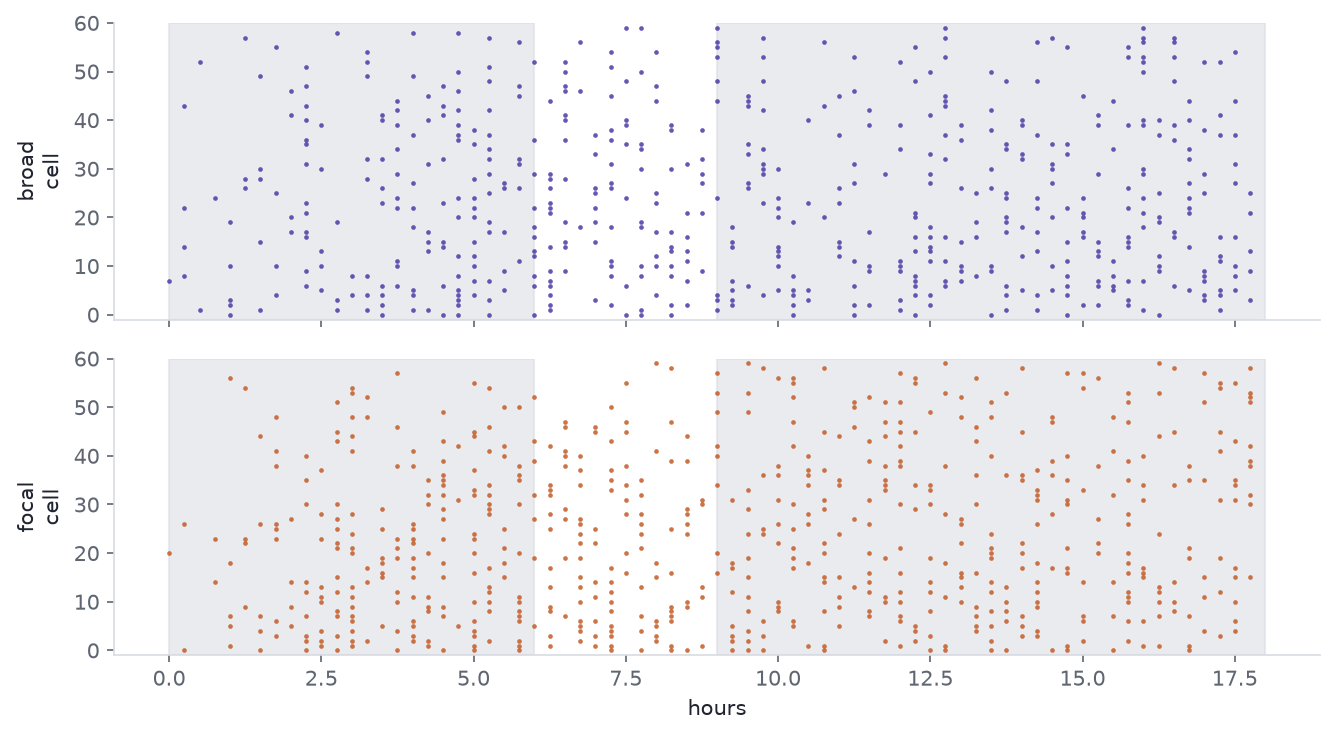
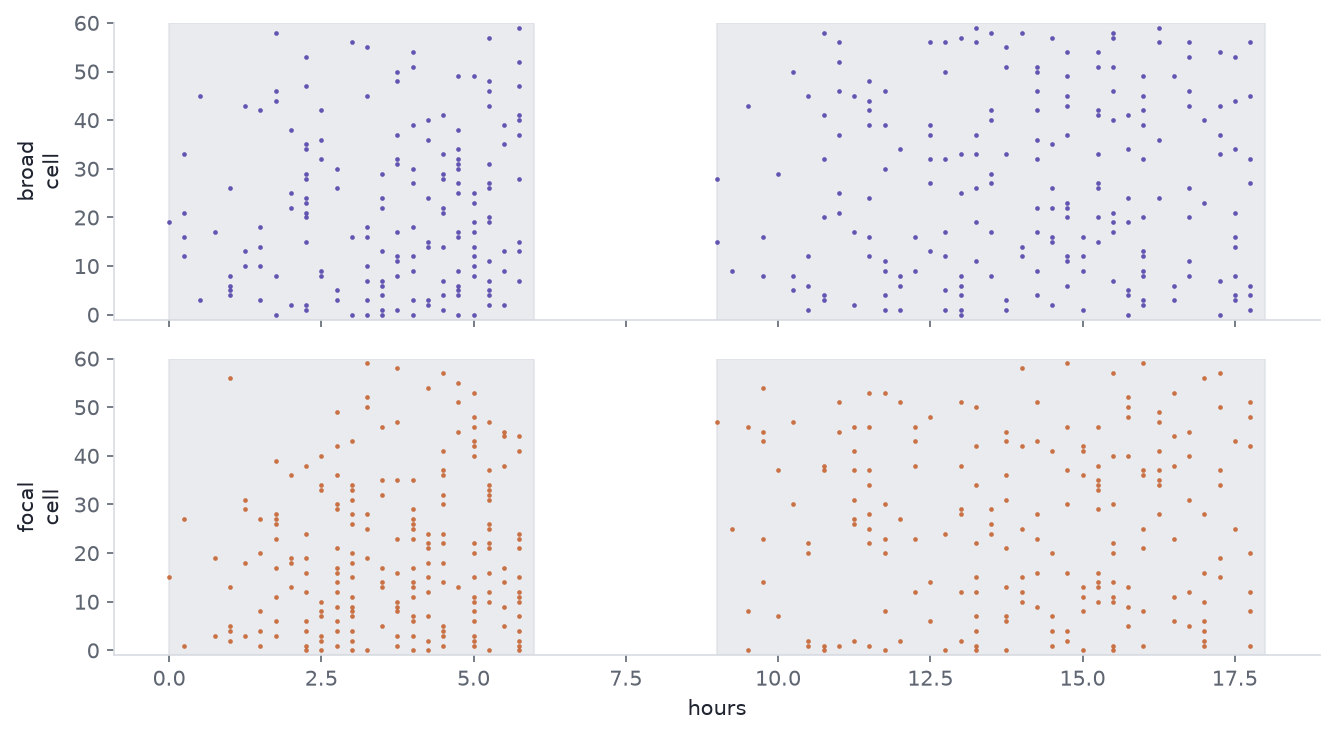
fix(posts): implement the wash, and penalise the maximum-likelihood splines
The design says uneaten first-wave corpses are washed out at 6 h. Nothing
did that, so leftovers stayed edible for the whole run: over half of
"first-wave uptake" landed after the first wave, a third of second-wave
events were wave-1 corpses, and "naive" did not mean what the post said
it meant. Targets are now cleared at the wash, and the two waves separate
exactly.

The maximum-likelihood spline fits were unpenalised while the Bayesian
model they stand in for is not, so a fold whose training donors did not
span the knot range extrapolated without limit -- one scored -418,046
against a typical -1,250. They now carry a small ridge.

Also: the leave-one-donor-out standard error is taken across donors
rather than across correlated rows, the dispersion sentence no longer
credits random effects the estimate never had, the power sentence can no
longer render "None donors", and the basis width is read from the basis
instead of being hard-coded in two more places.

diff --git a/docs/posts/efferocytosis-history-model/index.html b/docs/posts/efferocytosis-history-model/index.html
@@ -318,7 +318,7 @@ Figure&nbsp;1: Simulated supply-limited clearance of 900 targets by 200 cells un
 experienced-cell share: priming 0.602, satiety 0.144</code></pre>
 </div>
 </div>
-<p>The two population curves differ by 0 targets out of 900. The share of the work done by experienced cells is 0.60 against 0.14 — a factor of 4.2. The mean is the same; the mechanism is not.</p>
+<p>The two population curves are identical, not merely close: the pool empties on a fixed schedule, so the allocation rule cannot change the total. That is the construction, not a finding — it is what lets the figure vary the mechanism with the population curve held exactly still. The share of the work done by experienced cells is 0.60 against 0.14 — a factor of 4.2. The mean is the same; the mechanism is not.</p>
 </section>
 <section id="a-recurrent-event-intensity" class="level2" data-number="3">
 <h2 data-number="3" class="anchored" data-anchor-id="a-recurrent-event-intensity"><span class="header-section-number">3</span> A recurrent-event intensity</h2>
@@ -390,20 +390,20 @@ Figure&nbsp;2: Simulated uptake events for 60 cells drawn from one donor, in the
 </div>
 <div class="cell-output cell-output-stdout">
 <pre><code>arm
-broad    6.02
-focal    6.58
+broad    2.79
+focal    3.21
 none     0.00
 arm
-broad    3.38
-focal    3.33
+broad    3.49
+focal    3.45
 none     3.51</code></pre>
 </div>
 </div>
-<p>Mean first-wave uptake is 6.02 per cell in <code>broad</code> and 6.58 in <code>focal</code>, from the same delivered budget. Mean second-wave uptake is 3.38 against 3.33 — a difference of 1.4%. The population readout is nearly blind to the manipulation, which is the point of running it.</p>
+<p>Mean first-wave uptake is 2.79 per cell in <code>broad</code> and 3.21 in <code>focal</code>, from the same delivered budget. Mean second-wave uptake is 3.49 against 3.45 — a difference of 1.1%. The population readout is nearly blind to the manipulation, which is the point of running it.</p>
 </section>
 <section id="fitting" class="level2" data-number="5">
 <h2 data-number="5" class="anchored" data-anchor-id="fitting"><span class="header-section-number">5</span> Fitting</h2>
-<p>The model is fitted on the second wave, with first-wave history carried in as covariates. The counting-process likelihood factorises into independent contributions on any partition of follow-up, so the events are aggregated to 1.5-hour blocks — about twice the refractory time constant, chosen on that scale rather than by looking at the fit. That gives 7,829 rows.</p>
+<p>The model is fitted on the second wave, with first-wave history carried in as covariates. The counting-process likelihood factorises into independent contributions on any partition of follow-up, so the events are aggregated to 1.5-hour blocks — about twice the refractory time constant, chosen on that scale rather than by looking at the fit. That gives 7,805 rows.</p>
 <p>Two models, fixed before either was run:</p>
 <ul>
 <li><strong>Baseline</strong> — negative-binomial, linear in load, gap and <span class="math inline">\(\log(1 + \text{neighbour
@@ -465,14 +465,14 @@ Figure&nbsp;3: Estimated against generating smooths from the simulated depletion
 </div>
 </div>
 <div class="cell-output cell-output-stdout">
-<pre><code>f1 RMSE 0.321, 95% band covers 21% of the grid
-f2 RMSE 0.231
-estimated f1 peak at load 2.85; generating peak at 1.59</code></pre>
+<pre><code>f1 RMSE 0.339, 95% band covers 18% of the grid
+f2 RMSE 0.233
+estimated f1 peak at load 3.34; generating peak at 1.62</code></pre>
 </div>
 </div>
-<p>The load term recovers its <strong>sign pattern</strong> and not much more. The estimate rises then falls, as the generating curve does, so the qualitative claim that priming gives way to satiety survives. The quantitative recovery is poor: the estimated peak sits at load 2.8 against a generating peak at 1.6, root-mean-square error is 0.321 on the log-intensity scale, and the 95% credible band covers the true curve over only 21% of the grid.</p>
-<p>That last number is the honest headline. A band that excludes the truth over 79% of the range is <strong>under-covering</strong>, so the intervals here are too narrow to be taken at face value. The random-walk penalty is doing more shrinking than the data warrant, and the 1.5-hour aggregation blurs the covariate within each block. The refractory term is better behaved, at root-mean-square error 0.231. Only 6.1% of rows carry a load above 4, which is where the band is widest and the estimate worst.</p>
-<p>The estimated dispersion is effectively Poisson: with the offset and the random effects in place, there is no extra-Poisson variation left for the negative binomial to absorb. The negative binomial nests the Poisson, so this costs nothing, but it is worth saying rather than reporting a dispersion that is doing no work.</p>
+<p>The load term recovers its <strong>sign pattern</strong> and not much more. The estimate rises then falls, as the generating curve does, so the qualitative claim that priming gives way to satiety survives. The quantitative recovery is poor: the estimated peak sits at load 3.3 against a generating peak at 1.6, root-mean-square error is 0.339 on the log-intensity scale, and the 95% credible band covers the true curve over only 18% of the grid.</p>
+<p>That last number is the honest headline. A band that excludes the truth over 82% of the range is <strong>under-covering</strong>, so the intervals here are too narrow to be taken at face value. The random-walk penalty is doing more shrinking than the data warrant, and the 1.5-hour aggregation blurs the covariate within each block. The refractory term is better behaved, at root-mean-square error 0.233. Only 1.6% of rows carry a load above 4, which is where the band is widest and the estimate worst.</p>
+<p>The estimated dispersion is effectively Poisson: with the opportunity offset in place, there is no extra-Poisson variation left for the negative binomial to absorb. That estimate comes from a fixed-effect Poisson fit on the same design, not from the Bayesian model’s own dispersion posterior. The negative binomial nests the Poisson, so this costs nothing, but it is worth saying rather than reporting a dispersion that is doing no work.</p>
 </section>
 <section id="out-of-donor-evaluation" class="level2" data-number="6">
 <h2 data-number="6" class="anchored" data-anchor-id="out-of-donor-evaluation"><span class="header-section-number">6</span> Out-of-donor evaluation</h2>
@@ -489,18 +489,22 @@ estimated f1 peak at load 2.85; generating peak at 1.59</code></pre>
 <span id="cb8-7"><a href="#cb8-7" aria-hidden="true" tabindex="-1"></a>kept <span class="op">=</span> (score[<span class="st">"diff"</span>] <span class="op">&gt;</span> <span class="dv">4</span>) <span class="kw">and</span> (score[<span class="st">"diff"</span>] <span class="op">&gt;</span> <span class="dv">2</span> <span class="op">*</span> score[<span class="st">"se"</span>])</span>
 <span id="cb8-8"><a href="#cb8-8" aria-hidden="true" tabindex="-1"></a><span class="bu">print</span>(<span class="ss">f"spline  </span><span class="sc">{</span>score[<span class="st">'gam'</span>]<span class="sc">:9.1f}</span><span class="ss">"</span>)</span>
 <span id="cb8-9"><a href="#cb8-9" aria-hidden="true" tabindex="-1"></a><span class="bu">print</span>(<span class="ss">f"linear  </span><span class="sc">{</span>score[<span class="st">'linear'</span>]<span class="sc">:9.1f}</span><span class="ss">"</span>)</span>
-<span id="cb8-10"><a href="#cb8-10" aria-hidden="true" tabindex="-1"></a><span class="bu">print</span>(<span class="ss">f"diff    </span><span class="sc">{</span>score[<span class="st">'diff'</span>]<span class="sc">:9.2f}</span><span class="ss">  (se </span><span class="sc">{</span>score[<span class="st">'se'</span>]<span class="sc">:.2f}</span><span class="ss">, n = </span><span class="sc">{</span>score[<span class="st">'n'</span>]<span class="sc">}</span><span class="ss">)"</span>)</span>
-<span id="cb8-11"><a href="#cb8-11" aria-hidden="true" tabindex="-1"></a><span class="bu">print</span>(<span class="ss">f"margin met: </span><span class="sc">{</span>kept<span class="sc">}</span><span class="ss">"</span>)</span></code><button title="Copy to Clipboard" class="code-copy-button"><i class="bi"></i></button></pre></div>
+<span id="cb8-10"><a href="#cb8-10" aria-hidden="true" tabindex="-1"></a><span class="bu">print</span>(<span class="ss">f"diff    </span><span class="sc">{</span>score[<span class="st">'diff'</span>]<span class="sc">:9.2f}</span><span class="ss">"</span>)</span>
+<span id="cb8-11"><a href="#cb8-11" aria-hidden="true" tabindex="-1"></a><span class="bu">print</span>(<span class="ss">f"  se     </span><span class="sc">{</span>score[<span class="st">'se'</span>]<span class="sc">:9.2f}</span><span class="ss">  (across </span><span class="sc">{</span>score[<span class="st">'n_donors'</span>]<span class="sc">}</span><span class="ss"> donors, the resampling unit)"</span>)</span>
+<span id="cb8-12"><a href="#cb8-12" aria-hidden="true" tabindex="-1"></a><span class="bu">print</span>(<span class="ss">f"  se_row </span><span class="sc">{</span>score[<span class="st">'se_row'</span>]<span class="sc">:9.2f}</span><span class="ss">  (across </span><span class="sc">{</span>score[<span class="st">'n'</span>]<span class="sc">}</span><span class="ss"> rows, which are not independent)"</span>)</span>
+<span id="cb8-13"><a href="#cb8-13" aria-hidden="true" tabindex="-1"></a><span class="bu">print</span>(<span class="ss">f"margin met: </span><span class="sc">{</span>kept<span class="sc">}</span><span class="ss">"</span>)</span></code><button title="Copy to Clipboard" class="code-copy-button"><i class="bi"></i></button></pre></div>
 </details>
 <div class="cell-output cell-output-stdout">
-<pre><code>spline    -9071.4
-linear    -9106.2
-diff        34.78  (se 10.43, n = 7829)
+<pre><code>spline    -7818.0
+linear    -7827.3
+diff         9.30
+  se          3.63  (across 6 donors, the resampling unit)
+  se_row      5.78  (across 7805 rows, which are not independent)
 margin met: True</code></pre>
 </div>
 </div>
-<p>Each donor is held out in turn, both models are refitted by maximum likelihood on the remaining donors, and the held-out donor’s counts are scored. These are <strong>plug-in log scores at the fitted coefficients, not expected log predictive densities</strong> (<a href="https://doi.org/10.1007/s11222-016-9696-4">Vehtari et al.&nbsp;2017</a>): they ignore coefficient uncertainty, carry no random effects, and predict the held-out donor at the average donor. The approximation is identical for both models, so the comparison is fair, but neither number is an ELPD. The scoring rule is the log score, which is strictly proper (<a href="https://doi.org/10.1198/016214506000001437">Gneiting and Raftery 2007</a>).</p>
-<p>The spline model scores 34.8 log points above the baseline with a standard error of 10.4, so it meets the pre-registered margin. Recovering the shape of <span class="math inline">\(f_1\)</span> and predicting a new donor better are different achievements, and on this simulation both hold.</p>
+<p>Each donor is held out in turn, both models are refitted by maximum likelihood on the remaining donors, and the held-out donor’s counts are scored. These are <strong>plug-in log scores at the fitted coefficients, not expected log predictive densities</strong> (<a href="https://doi.org/10.1007/s11222-016-9696-4">Vehtari et al.&nbsp;2017</a>): they ignore coefficient uncertainty, carry no random effects, and predict the held-out donor at the average donor. The approximation is identical for both models, so the comparison is fair, but neither number is an ELPD. The scoring rule is the log score, which is strictly proper (<a href="https://doi.org/10.1198/016214506000001437">Gneiting and Raftery 2007</a>). Both fits carry a small ridge on the non-intercept columns, because an unpenalised spline GLM extrapolates without limit on a fold whose training donors do not span the knot range. The standard error is taken across donors, the unit that is actually resampled; the row-wise figure is printed beside it and is the larger of the two here.</p>
+<p>The spline model scores 9.3 log points above the baseline with a standard error of 3.6, so it meets the pre-registered margin. Recovering the shape of <span class="math inline">\(f_1\)</span> and predicting a new donor better are different achievements, and on this simulation both hold.</p>
 <div id="cell-fig-calibration" class="cell" data-fig-height="4" data-fig-width="6.2" data-execution_count="11">
 <details class="code-fold">
 <summary>Code</summary>
@@ -543,7 +547,7 @@ Figure&nbsp;4: Held-out donor calibration for both models on the simulated exper
 <section id="prediction-and-causation" class="level2" data-number="7">
 <h2 data-number="7" class="anchored" data-anchor-id="prediction-and-causation"><span class="header-section-number">7</span> Prediction and causation</h2>
 <p>Within an arm, a cell’s load is observed, not assigned. Cells that are intrinsically avid eat more in the first wave <em>and</em> more in the second, so the observed relationship between history and later uptake is confounded by that avidity — which no instrument measures.</p>
-<p>Latent avidity correlates 0.41 with first-wave uptake and 0.43 with second-wave uptake. Regressing later uptake on observed history gives a slope of 0.0560; holding the latent term fixed — which the simulation can do and an experiment cannot — gives 0.0423. The observed-load curve is biased by 33%.</p>
+<p>Latent avidity correlates 0.41 with first-wave uptake and 0.43 with second-wave uptake. Regressing later uptake on observed history gives a slope of 0.0941; holding the latent term fixed — which the simulation can do and an experiment cannot — gives 0.0663. The observed-load curve is biased by 42%.</p>
 <p>The assigned arm is different. Arm is randomised across donors, so the broad-versus-focal contrast is a causal contrast of delivery patterns whatever avidity does (<a href="https://miguelhernan.org/whatifbook">Hernan and Robins 2020</a>). The quantity it moves is not the mean.</p>
 <div id="cell-fig-share" class="cell" data-fig-height="4" data-fig-width="6.4" data-execution_count="13">
 <details class="code-fold">
@@ -580,13 +584,13 @@ Figure&nbsp;5: Share of second-wave uptake taken by cells that ate nothing in th
 </div>
 <div class="cell-output cell-output-stdout">
 <pre><code>arm
-broad    0.008
-focal    0.094
+broad    0.043
+focal    0.169
 none     1.000
-logit contrast focal - broad = 2.66  95% CI [1.83, 3.54]</code></pre>
+logit contrast focal - broad = 1.58  95% CI [0.98, 2.18]</code></pre>
 </div>
 </div>
-<p>Naive cells supply 0.8% of second-wave uptake in <code>broad</code> and 9.4% in <code>focal</code>, from the same delivered budget and with second-wave means that differ by under two percent. The logit contrast is 2.66 (95% CI 1.83 to 3.54, donor bootstrap).</p>
+<p>Naive cells supply 4.3% of second-wave uptake in <code>broad</code> and 16.9% in <code>focal</code>, from the same delivered budget and with second-wave means that differ by under two percent. The logit contrast is 1.58 (95% CI 0.98 to 2.18, donor bootstrap).</p>
 <p>One caution about that readout. A share is a composition, and a composition moves when <em>any</em> part moves (<a href="https://doi.org/10.3389/fmicb.2017.02224">Gloor et al.&nbsp;2017</a>). The naive-cell share can rise because naive cells ate more or because experienced cells ate less, and those are different mechanisms. Relative abundance is not flux: the share needs the total beside it, which is why the second-wave totals are reported above.</p>
 </section>
 <section id="design" class="level2" data-number="8">
@@ -633,14 +637,14 @@ Figure&nbsp;6: Simulated probability of detecting the assigned broad-versus-foca
 </div>
 <div class="cell-output cell-output-stdout">
 <pre><code> donors  power  n_rep
-      3   0.52    200
-      4   0.87    200
-      5   0.95    200
-      6   1.00    200
-      8   1.00    200</code></pre>
+      3  0.195    200
+      4  0.485    200
+      5  0.675    200
+      6  0.825    200
+      8  0.955    200</code></pre>
 </div>
 </div>
-<p>4 donors reach 80% power for this contrast at this effect size. That is a statement about the naive-cell share; the same experiment is badly underpowered for the population mean, which the design deliberately holds still. The test used here is a donor-paired comparison, which is cheaper than the fitted intensity model and therefore conservative.</p>
+<p>6 donors reach 80% power for this contrast at this effect size. That is a statement about the naive-cell share; the same experiment is badly underpowered for the population mean, which the design deliberately holds still. The test used here is a donor-paired comparison, which is cheaper than the fitted intensity model and therefore conservative.</p>
 </section>
 <section id="constraints" class="level2" data-number="9">
 <h2 data-number="9" class="anchored" data-anchor-id="constraints"><span class="header-section-number">9</span> Constraints</h2>
@@ -649,7 +653,9 @@ Figure&nbsp;6: Simulated probability of detecting the assigned broad-versus-foca
 <li><strong>The evaluation is a plug-in score, not an ELPD, and not of the fitted models.</strong> Full leave-one-donor-out with both Bayesian models was out of compute budget, so the fold comparison refits by maximum likelihood with no random effects. Coefficient uncertainty is ignored and the held-out donor is predicted at the average donor. The smooths shown above come from the Bayesian fit; the score below does not.</li>
 <li><strong>The score is sensitive to the aggregation grid.</strong> The 1.5 h block was chosen against the refractory time constant, before looking at the fit; a coarser grid narrows the gap between the two models substantially. A comparison that moves with a nuisance choice should be reported with that choice, not without it.</li>
 <li><strong>Six donors is a small random-effect sample.</strong> The donor standard deviation is estimated from six values, and its posterior is correspondingly wide.</li>
-<li><strong>The credible bands under-cover.</strong> The 95% band for <span class="math inline">\(f_1\)</span> contains the generating curve over 21% of its range. Reported rather than tuned away: a penalty prior and an aggregation grid both chosen before fitting should not be adjusted until the intervals look right. The shape conclusion stands; the interval widths do not.</li>
+<li><strong>The credible bands under-cover.</strong> The 95% band for <span class="math inline">\(f_1\)</span> contains the generating curve over 18% of its range. Reported rather than tuned away: a penalty prior and an aggregation grid both chosen before fitting should not be adjusted until the intervals look right. The shape conclusion stands; the interval widths do not.</li>
+<li><strong>The penalty shrinks more than a P-spline should.</strong> The random walk is written <code>tau * cumsum(cumsum(z))</code>, which puts the constant and linear components of each smooth under the same <code>tau</code> as the curvature. A standard P-spline leaves that two-dimensional null space unpenalised. The result is asymmetric in the basis index — the first coefficient is pinned hardest — which is a specific structural reason the estimated peak sits to the right of the true one, over and above block blurring.</li>
+<li><strong>The folds are not fully held out.</strong> The dispersion estimate, the spline knots and the covariate standardisation are all computed on the full panel, so a held-out donor contributes to them. It is the same leakage on both sides, so the comparison stays fair, but each absolute score is optimistic.</li>
 <li><strong><span class="math inline">\(f_3\)</span> is the weakest of the three.</strong> Depletion and signalling are separable in principle through the offset, but the two generating modes are not compared head to head here.</li>
 <li><strong>Simulated tracking loss is non-informative.</strong> Real loss is not: a cell that dies after over-eating is censored precisely because of its history, and that breaks the censoring assumption this model relies on.</li>
 <li><strong>One label-free imaging method is cited as an example only</strong> (<a href="https://doi.org/10.7554/eLife.77373">Neto et al.&nbsp;2022</a>). Nothing here rests on it.</li>
@@ -661,11 +667,11 @@ Figure&nbsp;6: Simulated probability of detecting the assigned broad-versus-foca
 <div class="cell-output cell-output-stdout">
 <pre><code>toy             0.0 s
 simulate        0.4 s
-design          1.1 s
-sample         96.4 s
-evaluation      0.3 s
-power         132.2 s
-total         232.3 s
+design          1.2 s
+sample         86.8 s
+evaluation      0.6 s
+power         110.4 s
+total         201.2 s
 
 python 3.12.13  numpy 2.5.3  pandas 3.0.5
 pymc 6.3.2  nutpie 0.16.11</code></pre>

diff --git a/docs/index.html b/docs/index.html
@@ -226,7 +226,7 @@ Reading Time
 </tr>
 </thead>
 <tbody class="list">
[2 lines of base64/hex data omitted]
 <td>
 <span class="listing-image"><img loading="lazy" src="./posts/efferocytosis-history-model/cover.png" style="height: 40px;"></span>
 </td>
@@ -237,7 +237,7 @@ Reading Time
 <a href="./posts/efferocytosis-history-model/index.html" class="title listing-title">Who Does the Clearing?</a>
 </td>
 <td>
-<span class="listing-reading-time">23 min</span>
+<span class="listing-reading-time">24 min</span>
 </td>
 </tr>
[1 lines of base64/hex data omitted]

diff --git a/posts/efferocytosis-history-model/src/fitting.py b/posts/efferocytosis-history-model/src/fitting.py
@@ -36,6 +36,10 @@ class Basis:
     degree: int
     centre: np.ndarray
 
+    @property
+    def n_basis(self) -> int:
+        return len(self.knots) - self.degree - 1
+
     def __call__(self, x: np.ndarray) -> np.ndarray:
         lo, hi = self.knots[self.degree], self.knots[-self.degree - 1]
         xc = np.clip(np.asarray(x, dtype=float), lo, hi)
@@ -57,7 +61,6 @@ def make_basis(x: np.ndarray, n_basis: int = 8, degree: int = 3) -> Basis:
     if interior.size < n_interior:
         interior = np.linspace(lo, hi, n_interior + 2)[1:-1]
     knots = np.concatenate([np.repeat(lo, degree + 1), interior, np.repeat(hi, degree + 1)])
-    n_basis = len(knots) - degree - 1
     raw = BSpline.design_matrix(np.clip(x, lo, hi), knots, degree).toarray()
     return Basis(knots=knots, degree=degree, centre=raw.mean(axis=0))
 
@@ -126,7 +129,7 @@ def _finish(model: pm.Model, d: Design, eta: pt.TensorVariable, alpha, weights: 
     pm.Potential("loglik", (w * pm.logp(dist, d.y)).sum())
 
 
-def gam_model(d: Design, weights: np.ndarray, n_basis: int = 8) -> pm.Model:
+def gam_model(d: Design, weights: np.ndarray) -> pm.Model:
     """Penalised splines: a second-order random walk on the basis coefficients,
     written non-centred so the sampler sees a unit-scale parameter.
     """
@@ -135,7 +138,7 @@ def gam_model(d: Design, weights: np.ndarray, n_basis: int = 8) -> pm.Model:
         eta = intercept + u_donor[d.donor] + u_well[d.well]
         for s in SMOOTHS:
             tau = pm.HalfNormal(f"tau_{s}", 0.5)
-            z = pm.Normal(f"z_{s}", 0, 1, shape=n_basis)
+            z = pm.Normal(f"z_{s}", 0, 1, shape=d.bases[s].n_basis)
             raw = tau * pt.cumsum(pt.cumsum(z))
             beta = pm.Deterministic(f"beta_{s}", raw - raw.mean())
             eta = eta + pt.dot(d.X[s], beta)
@@ -154,6 +157,28 @@ def _nb_logpmf(y: np.ndarray, mu: np.ndarray, alpha: float) -> np.ndarray:
     large alpha is the Poisson limit.
     """
     return nbinom.logpmf(y, alpha, alpha / (alpha + mu))
+
+
+RIDGE = 1e-3  # shrinks the spline columns only; see _fit_glm
+
+
+def _fit_glm(y, X, family, offset):
+    """Ridge-penalised GLM fit.
+
+    The Bayesian model penalises its splines through a random-walk prior, so
+    the maximum-likelihood stand-in has to be penalised too. Left unpenalised,
+    a held-out fold whose training donors do not span the knot range
+    extrapolates without limit -- one fold scored -418,046 against a typical
+    -1,250, and another produced non-finite log densities. The intercept is
+    left unpenalised; everything else gets a small ridge.
+    """
+    import statsmodels.api as sm
+
+    penalty = np.full(X.shape[1], RIDGE)
+    penalty[0] = 0.0
+    return sm.GLM(y, X, family=family, offset=offset).fit_regularized(
+        alpha=penalty, L1_wt=0.0,
+    )
 
 
 def _nb_family(alpha: float):
@@ -226,7 +251,6 @@ def lodo_glm(panel: pd.DataFrame, d: Design, alpha: float) -> pd.DataFrame:
     approximation for both models, so the comparison is fair even though
     neither number is an ELPD.
     """
-    import statsmodels.api as sm
 
     Xg, Xl = glm_designs(panel, d)
     rows = []
@@ -235,11 +259,7 @@ def lodo_glm(panel: pd.DataFrame, d: Design, alpha: float) -> pd.DataFrame:
         test = ~train
         got = {}
         for name, X in (("gam", Xg), ("linear", Xl)):
-            res = sm.GLM(
-                d.y[train], X[train],
-                family=_nb_family(alpha),
-                offset=d.log_offset[train],
-            ).fit()
+            res = _fit_glm(d.y[train], X[train], _nb_family(alpha), d.log_offset[train])
             mu = np.exp(X[test] @ res.params + d.log_offset[test])
             got[name] = _nb_logpmf(d.y[test], mu, alpha)
         rows.append(pd.DataFrame({"donor": held, **got}))
@@ -247,13 +267,25 @@ def lodo_glm(panel: pd.DataFrame, d: Design, alpha: float) -> pd.DataFrame:
 
 
 def score_summary(folds: pd.DataFrame) -> dict[str, float]:
+    """Totals and a standard error taken at the donor, not the row.
+
+    Rows within a fold share one set of fitted coefficients, so they are not
+    independent draws and the usual row-wise leave-one-out formula understates
+    the correlation. The resampling unit here is the donor, so the error is
+    taken across the six per-donor totals.
+    """
     diff = folds["gam"].to_numpy() - folds["linear"].to_numpy()
+    by_donor = (
+        folds.assign(diff=diff).groupby("donor")["diff"].sum().to_numpy()
+    )
     return {
         "gam": float(folds["gam"].sum()),
         "linear": float(folds["linear"].sum()),
         "diff": float(diff.sum()),
-        "se": float(np.sqrt(diff.size) * diff.std(ddof=1)),
+        "se": float(np.sqrt(by_donor.size) * by_donor.std(ddof=1)),
+        "se_row": float(np.sqrt(diff.size) * diff.std(ddof=1)),
         "n": int(diff.size),
+        "n_donors": int(by_donor.size),
     }
 
 
@@ -262,7 +294,6 @@ def calibration_table(panel: pd.DataFrame, d: Design, alpha: float,
     """Observed against predicted counts on held-out donors, by bin of
     predicted rate.
     """
-    import statsmodels.api as sm
 
     Xg, Xl = glm_designs(panel, d)
     out = []
@@ -270,11 +301,7 @@ def calibration_table(panel: pd.DataFrame, d: Design, alpha: float,
         pred = np.zeros(len(panel))
         for held in np.sort(panel["donor"].unique()):
             train = d.donor != held
-            res = sm.GLM(
-                d.y[train], X[train],
-                family=_nb_family(alpha),
-                offset=d.log_offset[train],
-            ).fit()
+            res = _fit_glm(d.y[train], X[train], _nb_family(alpha), d.log_offset[train])
             pred[~train] = np.exp(X[~train] @ res.params + d.log_offset[~train])
         edges = np.quantile(pred, np.linspace(0, 1, n_bins + 1))
         idx = np.clip(np.digitize(pred, edges[1:-1]), 0, n_bins - 1)

diff --git a/posts/efferocytosis-history-model/src/sim.py b/posts/efferocytosis-history-model/src/sim.py
@@ -178,6 +178,15 @@ def _well(
     uptake_by_wave = np.zeros((n_cells, 2), dtype=int)
 
     for b in range(N_BINS):
+        if b == WAVE1[1]:
+            # The wash. Uneaten first-wave corpses are removed, which is what
+            # makes "naive" mean "ate nothing in the first wave" rather than
+            # "has not got round to the leftovers yet". Without this the first
+            # wave never ends: leftovers stay edible for the whole run, they
+            # inflate the second-wave opportunity differentially by arm, and
+            # over half of first-wave uptake lands after the first wave.
+            alive[wave == 1] = False
+
         slot = b % DIGEST_BINS
         load = load - queue[:, slot]
         queue[:, slot] = 0.0
